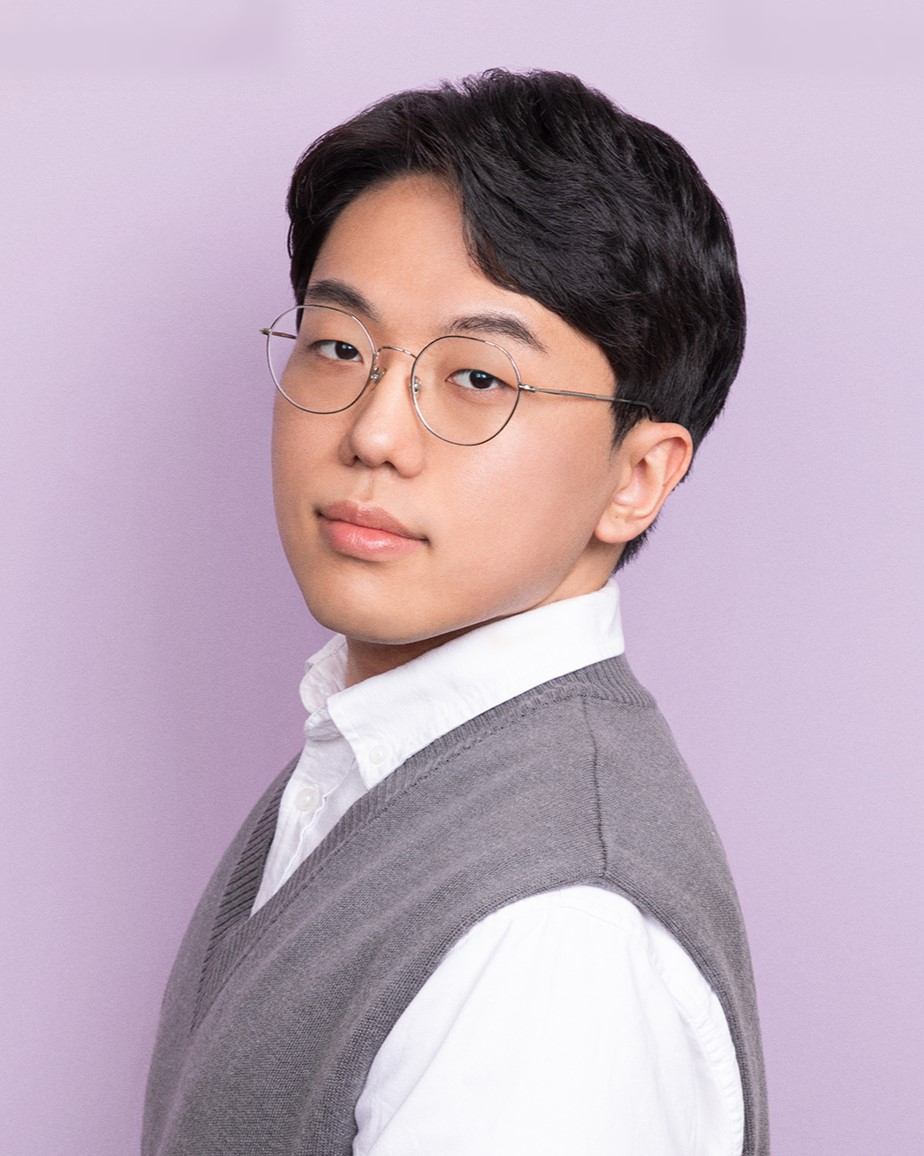
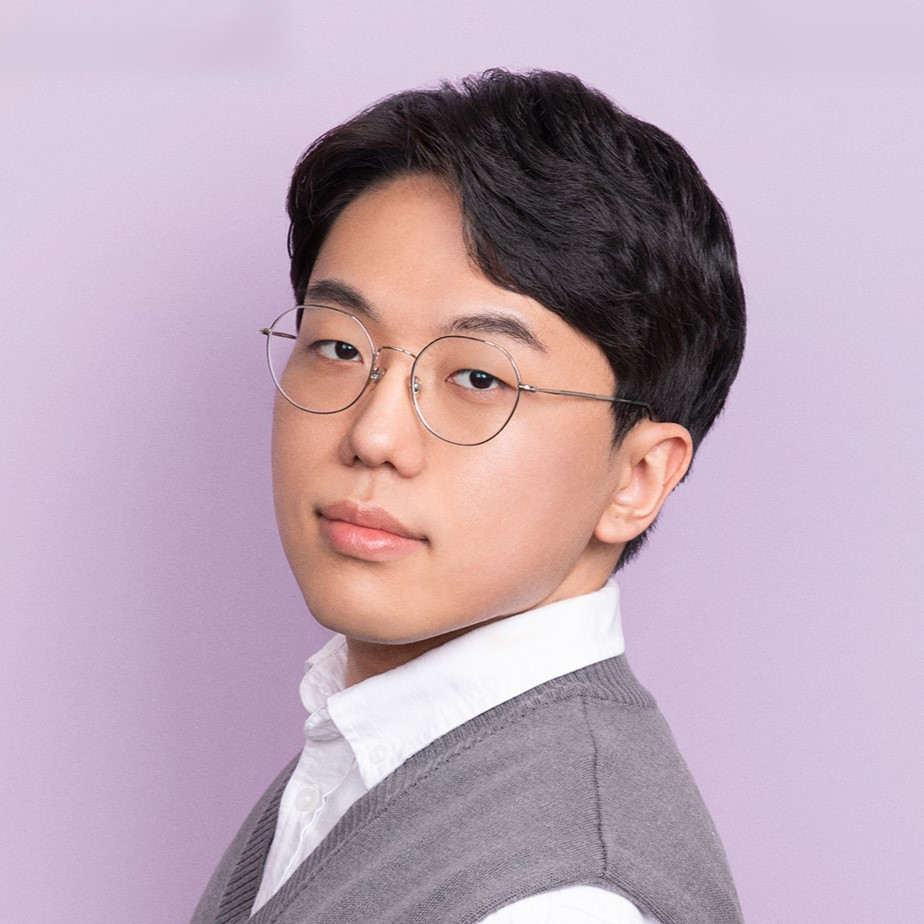
no bug until here

diff --git a/_sass/_base.scss b/_sass/_base.scss
@@ -234,8 +234,11 @@ ul.task-list input[type="checkbox"] {
 
 .profile img {
   width: 100%;
+  aspect-ratio: 1/1;
   max-width: 480px;
-  height: auto;
+  max-height: 480px;
+  object-fit: cover;
+  object-position: top;
   border-radius: 50%;
 }
 

diff --git a/_pages/profiles.md b/_pages/profiles.md
@@ -11,84 +11,89 @@ profiles_professor:
   # and create one content file for each profile inside _pages/
   - image: LJY.jpg
     # content: about_einstein.md
-    image_circular: false # crops the image to make it circular
+    image_circular: true # crops the image to make it circular
     more_info: >
-      <p style="font-size: 1.5rem;"><strong>Jaeyeon Lee</strong></p>
+      <p style="font-size: 1.5rem;"><strong>Jaeyeon Lee</strong></p><br>
       <p>Assistant Professor</p>
     email: jaeyeonlee@unist.ac.kr
-    website: https://jaeyeonlee.com
+    website: https://jaeyeonlee.com/JaeyeonLee_CV.pdf
 
 profiles_student:
   # if you want to include more than one profile, just replicate the following block
   # and create one content file for each profile inside _pages/
   - image: BSH.jpg
+    image_circular: true
     # content: about_einstein.md
-    image_circular: false # crops the image to make it circular
     more_info: >
-      <p style="font-size: 1.5rem;"><strong>Sanghyun Bae</strong></p>
+      <p style="font-size: 1.5rem;"><strong>Sanghyun Bae</strong></p><br>
       <p>Master Student</p>
     email: nshbae@unist.ac.kr
   - image: KSW.jpg
     # content: about_einstein.md
-    image_circular: false # crops the image to make it circular
+    image_circular: true # crops the image to make it circular
     more_info: >
-      <p style="font-size: 1.5rem;"><strong>Sungwoo Kang</strong></p>
+      <p style="font-size: 1.5rem;"><strong>Sungwoo Kang</strong></p><br>
       <p>Master-Ph.D Student</p>
     email: joseph316@unist.ac.kr
   - image: LJS.jpg
     # content: about_einstein.md
-    image_circular: false # crops the image to make it circular
+    image_circular: true # crops the image to make it circular
     more_info: >
-      <p style="font-size: 1.5rem;"><strong>Junsu Lee</strong></p>
-      <p>Undergraduate Student</p>
+      <p style="font-size: 1.5rem;"><strong>Junsu Lee</strong></p><br>
+      <p>Undergraduate Intern</p>
     email: linak31413@unist.ac.kr
+  - #image: LJS.jpg
+    # content: about_einstein.md
+    image_circular: true # crops the image to make it circular
+    more_info: >
+      <p style="font-size: 1.5rem;"><strong>Jiho Park</strong></p><br>
+      <p>Undergraduate Intern</p>
+    email: batiger00@unist.ac.kr
+  - #image: LJS.jpg
+    # content: about_einstein.md
+    image_circular: true # crops the image to make it circular
+    more_info: >
+      <p style="font-size: 1.5rem;"><strong>YoungWoong Jang</strong></p><br>
+      <p>Undergraduate Intern</p>
+    email: seewhy@unist.ac.kr
 
-profiles_allumni:
+profiles_alumni:
   # if you want to include more than one profile, just replicate the following block
   # and create one content file for each profile inside _pages/
-  - image: MBY.jpg
+  - #image: MBY.jpg
     # content: about_einstein.md
     image_circular: false # crops the image to make it circular
     more_info: >
-      <p style="font-size: 1.5rem;"><strong>Buyoung Mun</strong></p>
-      <p>Master-Ph.D Student</p>
+      <p style="font-size: 1.5rem;"><strong>Buyoung Mun</strong></p><br>
       <p>OCT. 2021 – AUG. 2024</p>
-  - image: KJS.jpg
+  - #image: KJS.jpg
     # content: about_einstein.md
     image_circular: false # crops the image to make it circular
     more_info: >
-      <p style="font-size: 1.5rem;"><strong>Jiseong Kim</strong></p>
-      <p>Master-Ph.D Student</p>
+      <p style="font-size: 1.5rem;"><strong>Jiseong Kim</strong></p><br>
       <p>OCT. 2021 – FEB. 2024</p>
-  - image: BDS.jpg
+  - #image: BDS.jpg
     # content: about_einstein.md
     image_circular: false # crops the image to make it circular
     more_info: >
-      <p style="font-size: 1.5rem;"><strong>Dusan Baek</strong></p>
-      <p>Undergraduate Student</p>
+      <p style="font-size: 1.5rem;"><strong>Dusan Baek</strong></p><br>
       <p>JUL. 2023 – JAN. 2024</p>
   - more_info: >
-      <p style="font-size: 1.5rem;"><strong>Jungmin Park</strong></p>
-      <p>Undergraduate Student</p>
+      <p style="font-size: 1.5rem;"><strong>Jungmin Park</strong></p><br>
       <p>MAR. 2023 – DEC. 2023</p>
   - more_info: >
-      <p style="font-size: 1.5rem;"><strong>Badraa BatUlzii</strong></p>
-      <p>Undergraduate Student</p>
+      <p style="font-size: 1.5rem;"><strong>Badraa BatUlzii</strong></p><br>
       <p>MAR. – SEP. 2023</p>
   - more_info: >
-      <p style="font-size: 1.5rem;"><strong>Kai Schaerer</strong></p>
-      <p>Undergraduate Student</p>
+      <p style="font-size: 1.5rem;"><strong>Kai Schaerer</strong></p><br>
       <p>JUL. – SEP. 2023</p>
   - more_info: >
-      <p style="font-size: 1.5rem;"><strong>Seonggyu Jang</strong></p>
-      <p>Undergraduate Student</p>
+      <p style="font-size: 1.5rem;"><strong>Seonggyu Jang</strong></p><br>
       <p>OCT. 2022 – JUL. 2023</p>
   - more_info: >
-      <p style="font-size: 1.5rem;"><strong>Sangeun Seo</strong></p>
-      <p>Undergraduate Student</p>
+      <p style="font-size: 1.5rem;"><strong>Sangeun Seo</strong></p><br>
       <p>SEP. – NOV. 2022</p>
   - more_info: >
-      <p style="font-size: 1.5rem;"><strong>Gayun Im</strong></p>
-      <p>Undergraduate Student</p>
+      <p style="font-size: 1.5rem;"><strong>Gayun Im</strong></p><br>
       <p>JUN. – AUG. 2022</p>
 ---

diff --git a/_pages/cv-jaeyeon.md b/_pages/cv-jaeyeon.md
@@ -1,0 +1,11 @@
+---
+layout: cv-jaeyeon
+permalink: /cv/jaeyeon
+title: Jaeyeon Lee
+nav: false
+# nav_order: 5
+cv_pdf: example_pdf.pdf # you can also use external links here
+description: This is a description of the page. You can modify it in '_pages/cv.md'. You can also change or remove the top pdf download button.
+toc:
+  sidebar: left
+---
